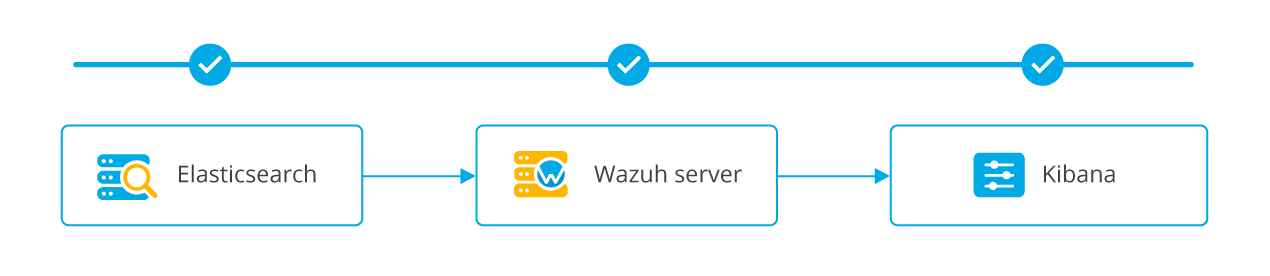
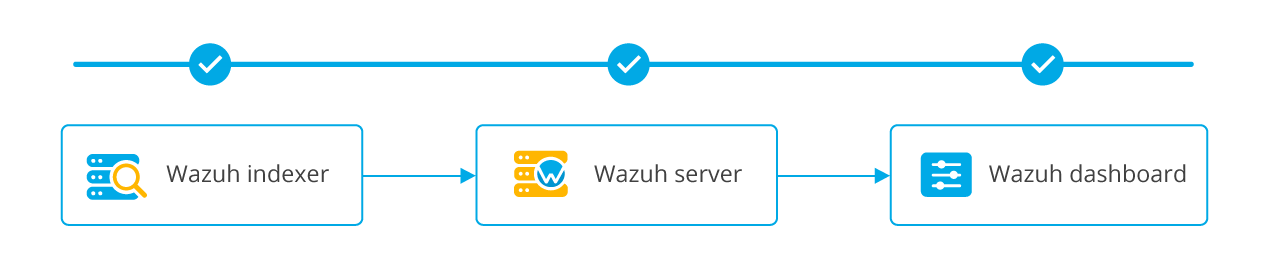
Update Wazuh components names

diff --git a/source/installation-guide/wazuh-dashboard/step-by-step.rst b/source/installation-guide/wazuh-dashboard/step-by-step.rst
@@ -1,23 +1,23 @@
 .. Copyright (C) 2021 Wazuh, Inc.
 
-.. meta:: :description: Learn how to install Kibana, a flexible and intuitive web interface for mining and visualizing the events and archives. 
+.. meta:: :description: Learn how to install Wazuh dashboard, a flexible and intuitive web interface for mining and visualizing the events and archives. 
 
 .. _wazuh_dashboard_step_by_step:
 
-Installing Kibana in step-by-step mode
-======================================
+Installing the Wazuh dashboard in step-by-step mode
+===================================================
 
-Kibana is a flexible and intuitive web interface for mining and visualizing the events and archives. 
+The Wazuh dashboard is a flexible and intuitive web interface for mining and visualizing the events and archives. 
 
 .. note:: Root user privileges are required to run the commands described below.
 
-Install Kibana
---------------
+Install the Wazuh dashboard
+----------------------------
 
 Adding the Wazuh repository
 ^^^^^^^^^^^^^^^^^^^^^^^^^^^
 
-Add the Wazuh repository if you are installing Kibana on a dedicated server. Skip this step to install it on the same host as the Wazuh server or Elasticsearch. 
+Add the Wazuh repository if you are installing the Wazuh dashboard on a dedicated server. Skip this step to install it on the same host as the Wazuh server or the Wazuh indexer. 
 
   .. tabs::
   
@@ -42,10 +42,10 @@ Add the Wazuh repository if you are installing Kibana on a dedicated server. Ski
   
   
 
-Installing and configuring Kibana
-^^^^^^^^^^^^^^^^^^^^^^^^^^^^^^^^^
+Installing and configuring the Wazuh dashboard
+^^^^^^^^^^^^^^^^^^^^^^^^^^^^^^^^^^^^^^^^^^^^^^
 
-#. Install the Kibana package.
+#. Install the Wazuh dashboard package.
 
     .. tabs::
 
@@ -70,7 +70,7 @@ Installing and configuring Kibana
 
 
 
-#. Download the Kibana configuration file.
+#. Download the Wazuh dashboard configuration file.
 
     .. include:: ../../_templates/installations/elastic/common/configure_kibana.rst
 
@@ -81,9 +81,9 @@ Installing and configuring Kibana
         server.host: <kibana_ip>
         elasticsearch.hosts: "https://<elasticsearch_ip>:9200"
 
-    - By default, Kibana only listens on the loopback interface (localhost), which means that it can be only accessed from the same host. To access Kibana from the outside it may be configured to listen on its network IP by replacing ``<kibana_ip>`` with Kibana's host IP. The value ``0.0.0.0`` will accept all the available IPs of the host.
+    - By default, the Wazuh dashboard only listens on the loopback interface (localhost), which means that it can be only accessed from the same host. To access the Wazuh dashboard from the outside it may be configured to listen on its network IP by replacing ``<kibana_ip>`` with Wazuh dashboard's host IP. The value ``0.0.0.0`` will accept all the available IPs of the host.
 
-    - ``<elasticsearch_ip>``: the host's IP. In case of having more than one Elasticsearch node, Kibana can be configured to connect to multiple Elasticsearch nodes in the same cluster. The IPs of the nodes can be separated with commas. Eg. ``["https://10.0.0.2:9200", "https://10.0.0.3:9200","https://10.0.0.4:9200"]``
+    - ``<elasticsearch_ip>``: the host's IP. In case of having more than one Wazuh indexer node, the Wazuh dashboard can be configured to connect to multiple Wazuh indexer nodes in the same cluster. The IPs of the nodes can be separated with commas. Eg. ``["https://10.0.0.2:9200", "https://10.0.0.3:9200","https://10.0.0.4:9200"]``
 
 #. Create the ``/usr/share/kibana/data`` directory.
 
@@ -101,19 +101,19 @@ Installing and configuring Kibana
         # sudo -u kibana bin/kibana-plugin install https://packages.wazuh.com/|CURRENT_MAJOR|/ui/kibana/wazuh_kibana-|WAZUH_LATEST|_|ELASTICSEARCH_LATEST|-1.zip && cd -
         
 
-#. Replace ``kibana-node-name`` with your Kibana node name, the same used in ``instances.yml`` to create the certificates, and move the certificates to their corresponding location. We assume that you placed a copy of ``certs.tar``, created during the Elasticsearch installation, in your working directory (``./``).
+#. Replace ``kibana-node-name`` with your Wazuh dashboard node name, the same used in ``instances.yml`` to create the certificates, and move the certificates to their corresponding location. We assume that you placed a copy of ``certs.tar``, created during the Elasticsearch installation, in your working directory (``./``).
 
     .. include:: ../../_templates/installations/elastic/common/generate_new_kibana_certificates.rst
 
 
-#. Link the Kibana socket to privileged port 443.
+#. Link socket to privileged port 443.
 
     .. code-block:: console
 
         # setcap 'cap_net_bind_service=+ep' /usr/share/kibana/node/bin/node
 
 
-#. Enable and start the Kibana service.
+#. Enable and start the Wazuh dashboard service.
 
     .. include:: ../../_templates/installations/elastic/common/enable_kibana.rst
 
@@ -139,10 +139,10 @@ Installing and configuring Kibana
     - **Username**: *wazuh*
     - **Password**: *<wazuh_user_password>*
 
-  When you access Kibana for the first time, the browser shows a warning message stating that the certificate was not issued by a trusted authority. An exception can be added in the advanced options of the web browser or, for increased security, the ``root-ca.pem`` file previously generated can be imported to the certificate manager of the browser. Alternatively, a certificate from a trusted authority can be configured. 
+  When you access the Wazuh dashboard for the first time, the browser shows a warning message stating that the certificate was not issued by a trusted authority. An exception can be added in the advanced options of the web browser or, for increased security, the ``root-ca.pem`` file previously generated can be imported to the certificate manager of the browser. Alternatively, a certificate from a trusted authority can be configured. 
 
 
-If you want to uninstall Kibana, see the :ref:`uninstalling <uninstall_kibana>` section. 
+If you want to uninstall the Wazuh dashboard, see the :ref:`uninstalling <uninstall_kibana>` section. 
 
 Next steps
 ----------

diff --git a/source/installation-guide/wazuh-indexer/index.rst b/source/installation-guide/wazuh-indexer/index.rst
@@ -6,33 +6,33 @@
   :description: Wazuh is a free, open source, and enterprise-ready security monitoring solution for threat detection, integrity monitoring, incident response and compliance.
 
 
-Elasticsearch
+Wazuh indexer
 =============
 
-Elasticsearch is a highly scalable, full-text search and analytics engine. Elasticsearch is distributed, meaning the data indices are divided into shards and each shard can have zero or more replicas. Wazuh uses different indices for alerts data, raw events, and status monitoring information.
+Wazuh indexer is a highly scalable, full-text search and analytics engine. Wazuh indexer is distributed, meaning the data indices are divided into shards and each shard can have zero or more replicas. Wazuh uses different indices for alerts data, raw events, and status monitoring information.
 
 This central component can be installed as a single-node or multi-node cluster depending on the environment needs. Small Wazuh deployments, which do not require processing large amounts of data, can easily be handled by a single-node cluster. Multi-node clusters are recommended when there is a large number of monitored endpoints, when a large volume of data is anticipated, or when high availability is required.
 
-You can now choose an installation method and start installing Elasticsearch.
+You can now choose an installation method and start installing the Wazuh indexer.
 
 - :ref:`Unattended installation <wazuh_indexer_unattended>`: Install this component by using a script that automates the installation process.  
 
 - :ref:`Step-by-step installation <wazuh_indexer_step_by_step>`: Install this component manually following detailed step-by-step instructions.
 
-.. thumbnail:: /images/installation/Wazuh-Installation-Elasticsearch-1.png
-    :alt: Elasticsearch installation
+.. thumbnail:: /images/installation/Wazuh-Indexer-Installation-1.png
+    :alt: Wazuh indexer installation
     :align: center
     :width: 100%
 
 Requirements
 ------------
 
-Check the supported operating systems and the recommended hardware requirements for the Elasticsearch installation. Make sure that your system environment meets all requirements and that you have root user privileges.
+Check the supported operating systems and the recommended hardware requirements for the Wazuh indexer installation. Make sure that your system environment meets all requirements and that you have root user privileges.
 
 Supported operating systems
 ^^^^^^^^^^^^^^^^^^^^^^^^^^^
 
-Elasticsearch can be installed on a 64-bit Linux operating system.
+Wazuh indexer can be installed on a 64-bit Linux operating system.
 
 .. list-table::
    :width: 50%
@@ -53,7 +53,7 @@ Elasticsearch can be installed on a 64-bit Linux operating system.
 Hardware recommendations
 ^^^^^^^^^^^^^^^^^^^^^^^^
 
-Elasticsearch can be installed as a single-node or as a multi-node cluster.
+Wazuh indexer can be installed as a single-node or as a multi-node cluster.
 
 - Hardware recommendations for each node
                           
@@ -62,16 +62,16 @@ Elasticsearch can be installed as a single-node or as a multi-node cluster.
   +-------------------------+----------+--------------+--------------+----------------+
   | Component               |  RAM (GB)|  CPU (cores) |  RAM (GB)    |   CPU (cores)  |
   +=========================+==========+==============+==============+================+
-  | Elasticsearch           |     4    |     2        |     16       |       8        |
+  | Wazuh indexer           |     4    |     2        |     16       |       8        |
   +-------------------------+----------+--------------+--------------+----------------+
 
 
 - Disk space requirements
 
-  The amount of data depends on the generated alerts per second (APS). This table details the estimated disk space needed per agent to store 90 days of alerts on an Elasticsearch server, depending on the type of monitored endpoints.
+  The amount of data depends on the generated alerts per second (APS). This table details the estimated disk space needed per agent to store 90 days of alerts on a Wazuh indexer server, depending on the type of monitored endpoints.
 
   +-------------------------------------------------+-----+---------------------------+
-  | Monitored endpoints                             | APS | Storage in Elasticsearch  |
+  | Monitored endpoints                             | APS | Storage in Wazuh indexer  |
   |                                                 |     |  (GB/90 days)             |
   +=================================================+=====+===========================+
   | Servers                                         | 0.25|           3.7             |
@@ -81,7 +81,7 @@ Elasticsearch can be installed as a single-node or as a multi-node cluster.
   | Network devices                                 | 0.5 |           7.4             |
   +-------------------------------------------------+-----+---------------------------+
 
-  For example, for an environment with 80 workstations, 10 servers, and 10 network devices, the storage needed on the Elasticsearch server for 90 days of alerts is 230 GB. 
+  For example, for an environment with 80 workstations, 10 servers, and 10 network devices, the storage needed on the Wazuh indexer server for 90 days of alerts is 230 GB. 
 
 
 

diff --git a/source/installation-guide/wazuh-dashboard/index.rst b/source/installation-guide/wazuh-dashboard/index.rst
@@ -6,20 +6,20 @@
   :description: Wazuh is a free, open source, and enterprise-ready security monitoring solution for threat detection, integrity monitoring, incident response and compliance.
 
 
-Kibana
+Wazuh dashboard
 ===============
 
 This central component is a flexible and intuitive web interface for mining, analyzing, and visualizing data. It includes out-of-the-box dashboards for security events, detected vulnerable applications, file integrity monitoring data, configuration assessment results, cloud infrastructure monitoring events, regulatory compliance, such as PCI DSS, GDPR, CIS, HIPAA, and NIST 800-53 standards, as well as other data visibility purposes.
 
-You can now choose an installation method and start installing Kibana.
+You can now choose an installation method and start installing Wazuh dashboard.
 
 - :ref:`Unattended installation <wazuh_dashboard_unattended_installation>`: Install this component by using a script that automates the installation process.  
 
 - :ref:`Step-by-step installation <wazuh_dashboard_step_by_step>`: Install this component manually following detailed step-by-step instructions.
 
 
-.. thumbnail:: /images/installation/Wazuh-Installation-Kibana-3.png
-    :alt: Kibana installation
+.. thumbnail:: /images/installation/Wazuh-Dashboard-Installation-3.png
+    :alt: Wazuh dashboard installation
     :align: center
     :width: 100%
 
@@ -27,12 +27,12 @@ You can now choose an installation method and start installing Kibana.
 Requirements
 ------------
 
-Check the supported operating systems and the recommended hardware requirements for the Kibana installation. Make sure that your system environment meets all requirements and that you have root user privileges.
+Check the supported operating systems and the recommended hardware requirements for the Wazuh dashboard installation. Make sure that your system environment meets all requirements and that you have root user privileges.
 
 Supported operating systems
 ^^^^^^^^^^^^^^^^^^^^^^^^^^^
 
-Kibana can be installed on a 64-bit Linux operating system.
+Wazuh dashboard can be installed on a 64-bit Linux operating system.
 
 .. list-table::
    :width: 50%
@@ -53,7 +53,7 @@ Kibana can be installed on a 64-bit Linux operating system.
 Hardware requirements
 ^^^^^^^^^^^^^^^^^^^^^
 
-Kibana can be installed on a dedicated node or along with Elasticsearch.
+Wazuh dashboard can be installed on a dedicated node or along with Wazuh indexer.
 
 - Hardware recommendations
                           
@@ -62,7 +62,7 @@ Kibana can be installed on a dedicated node or along with Elasticsearch.
   +-------------------------+----------+--------------+--------------+----------------+
   | Component               |  RAM (GB)|  CPU (cores) |  RAM (GB)    |   CPU (cores)  |
   +=========================+==========+==============+==============+================+
-  | Kibana                  |     4    |     2        |     16       |       8        |
+  | Wazuh dashboard         |     4    |     2        |     16       |       8        |
   +-------------------------+----------+--------------+--------------+----------------+
 
 

diff --git a/source/installation-guide/wazuh-server/step-by-step.rst b/source/installation-guide/wazuh-server/step-by-step.rst
@@ -38,7 +38,7 @@ Adding the Wazuh repository
 ^^^^^^^^^^^^^^^^^^^^^^^^^^^
 
 Add the Wazuh repository to download the official Wazuh packages. As an alternative, you can download the Wazuh packages directly from our :ref:`Package list <packages>`. 
-Skip this step to install it on the same host as Elasticsearch.
+Skip this step to install it on the same host as the Wazuh indexer.
     
    .. tabs::
    
@@ -112,7 +112,7 @@ Installing the Wazuh manager
 
   <div class="accordion-section open">
 
-Filebeat securely forwards alerts and archived events to Elasticsearch.  
+Filebeat securely forwards alerts and archived events to the Wazuh indexer.  
 
 
 Installing and configuring Filebeat 
@@ -145,13 +145,13 @@ Installing and configuring Filebeat
 
 
 
-#. Download the preconfigured Filebeat configuration file used to forward the Wazuh alerts to Elasticsearch.
+#. Download the preconfigured Filebeat configuration file used to forward the Wazuh alerts to the Wazuh indexer.
 
     .. code-block:: console
 
       # curl -so /etc/filebeat/filebeat.yml https://packages.wazuh.com/resources/|WAZUH_LATEST_MINOR|/open-distro/filebeat/7.x/filebeat_elastic_cluster.yml
 
-#. Download the alerts template for Elasticsearch.
+#. Download the alerts template for the Wazuh indexer.
 
     .. include:: ../../_templates/installations/elastic/common/load_filebeat_template.rst
 
@@ -166,7 +166,7 @@ Installing and configuring Filebeat
 
     .. include:: ../../_templates/installations/elastic/common/configure_filebeat.rst
 
-#. Replace ``wazuh-node-name`` with your Wazuh server node name, the same used in ``instances.yml`` to create the certificates, and move the certificates to their corresponding location. We assume that you placed a copy of ``certs.tar``, created during the Elasticsearch installation, in the root home folder (``~/``).
+#. Replace ``wazuh-node-name`` with your Wazuh server node name, the same used in ``instances.yml`` to create the certificates, and move the certificates to their corresponding location. We assume that you placed a copy of ``certs.tar``, created during the Wazuh indexer installation, in the root home folder (``~/``).
 
     .. include:: ../../_templates/installations/elastic/common/copy_certificates_filebeat_wazuh_cluster.rst
 
@@ -247,4 +247,4 @@ If you want to uninstall the Wazuh server, see the :ref:`uninstalling section <u
 Next steps
 ----------
 
-The Wazuh server installation is now complete and you can proceed with installing Kibana. To perform this action, see the :ref:`wazuh_dashboard_step_by_step` section.
+The Wazuh server installation is now complete and you can proceed with installing Wazuh dashboard. To perform this action, see the :ref:`wazuh_dashboard_step_by_step` section.

diff --git a/source/installation-guide/wazuh-server/unattended.rst b/source/installation-guide/wazuh-server/unattended.rst
@@ -30,7 +30,7 @@ The installation process is divided into two stages.
   <div class="accordion-section open">
 
 
-Install and configure the Wazuh master node. Make sure that a copy of ``certs.tar``, created during the Elasticsearch installation, is placed in the root home folder ``(~/)``.
+Install and configure the Wazuh master node. Make sure that a copy of ``certs.tar``, created during the Wazuh indexer installation, is placed in the root home folder ``(~/)``.
 
 #. Download the unattended installation script. 
 
@@ -83,7 +83,7 @@ Your Wazuh server is now successfully installed.
   <div class="accordion-section">
 
 
-Install and configure the Wazuh worker nodes. Make sure that a copy of ``certs.tar``, created during the Elasticsearch installation, is placed in the root home folder ``(~/)``.
+Install and configure the Wazuh worker nodes. Make sure that a copy of ``certs.tar``, created during the Wazuh indexer installation, is placed in the root home folder ``(~/)``.
 
 #. Download the unattended installation script. 
 
@@ -102,4 +102,4 @@ Your Wazuh server is now successfully installed. Repeat this process on every Wa
 Next steps
 ----------
   
-The Wazuh server installation is now complete and you can proceed with installing Kibana. To perform this action, see the :ref:`wazuh_dashboard_unattended_installation` section.  
+The Wazuh server installation is now complete and you can proceed with installing the Wazuh dashboard. To perform this action, see the :ref:`wazuh_dashboard_unattended_installation` section.  

diff --git a/source/installation-guide/index.rst b/source/installation-guide/index.rst
@@ -63,7 +63,6 @@ The diagram below represents a Wazuh deployment architecture. It shows the solut
 .. thumbnail:: ../images/installation/distributed.png
     :alt: Wazuh deployment
     :align: center
-    :wrap_image: No
     :scale: 100 %
 
 
@@ -191,8 +190,8 @@ If the Wazuh central components are already installed on your environment, selec
     :hidden:
     :maxdepth: 1
 
-    elasticsearch/index
+    wazuh-indexer/index
     wazuh-server/index
-    kibana/index
+    wazuh-dashboard/index
     wazuh-agent/index
     packages-list

diff --git a/source/installation-guide/wazuh-server/index.rst b/source/installation-guide/wazuh-server/index.rst
@@ -20,7 +20,7 @@ You can now choose an installation method and start installing the Wazuh server.
 - :ref:`Step-by-step installation <wazuh_server_step_by_step>`: Install this component manually following detailed step-by-step instructions.
 
 
-.. thumbnail:: /images/installation/Wazuh-Installation-server-2.png
+.. thumbnail:: /images/installation/Wazuh-Server-Installation-2.png
     :alt: Wazuh server installation
     :align: center
     :width: 100%
